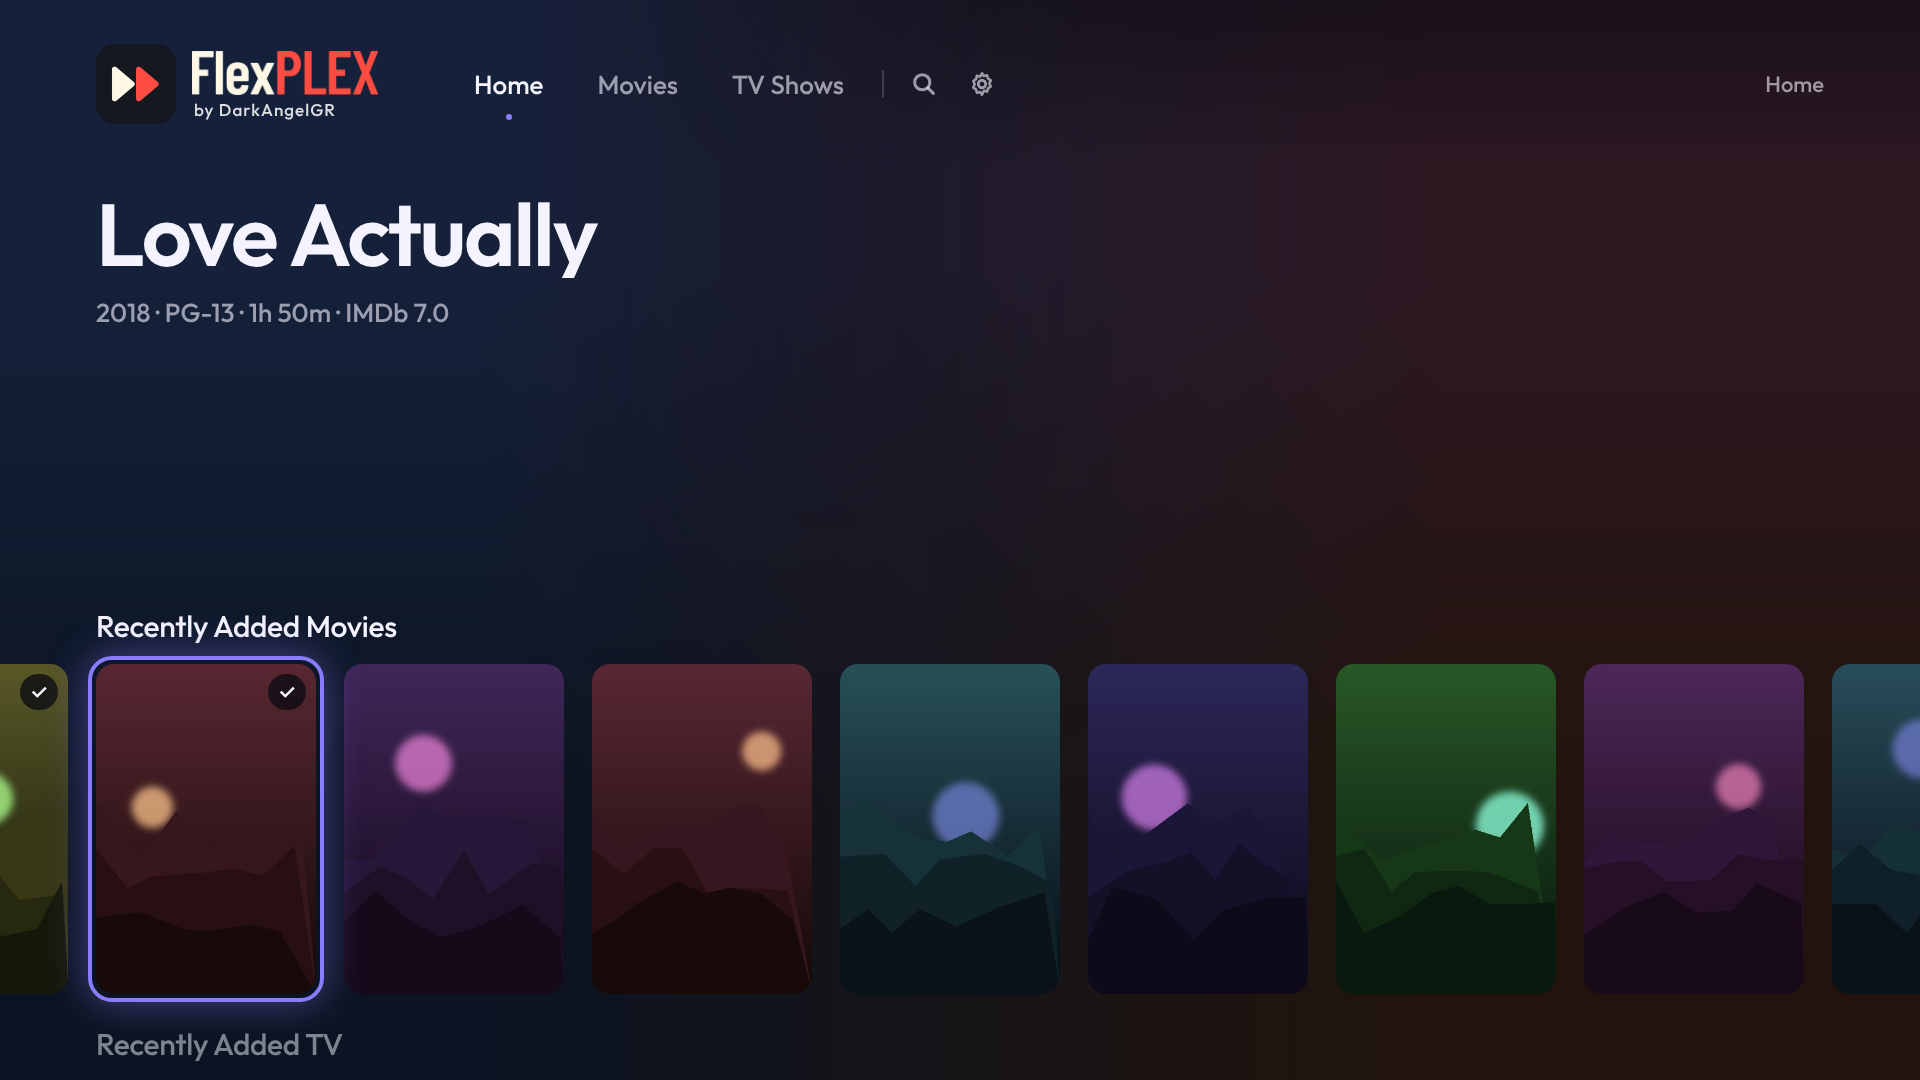
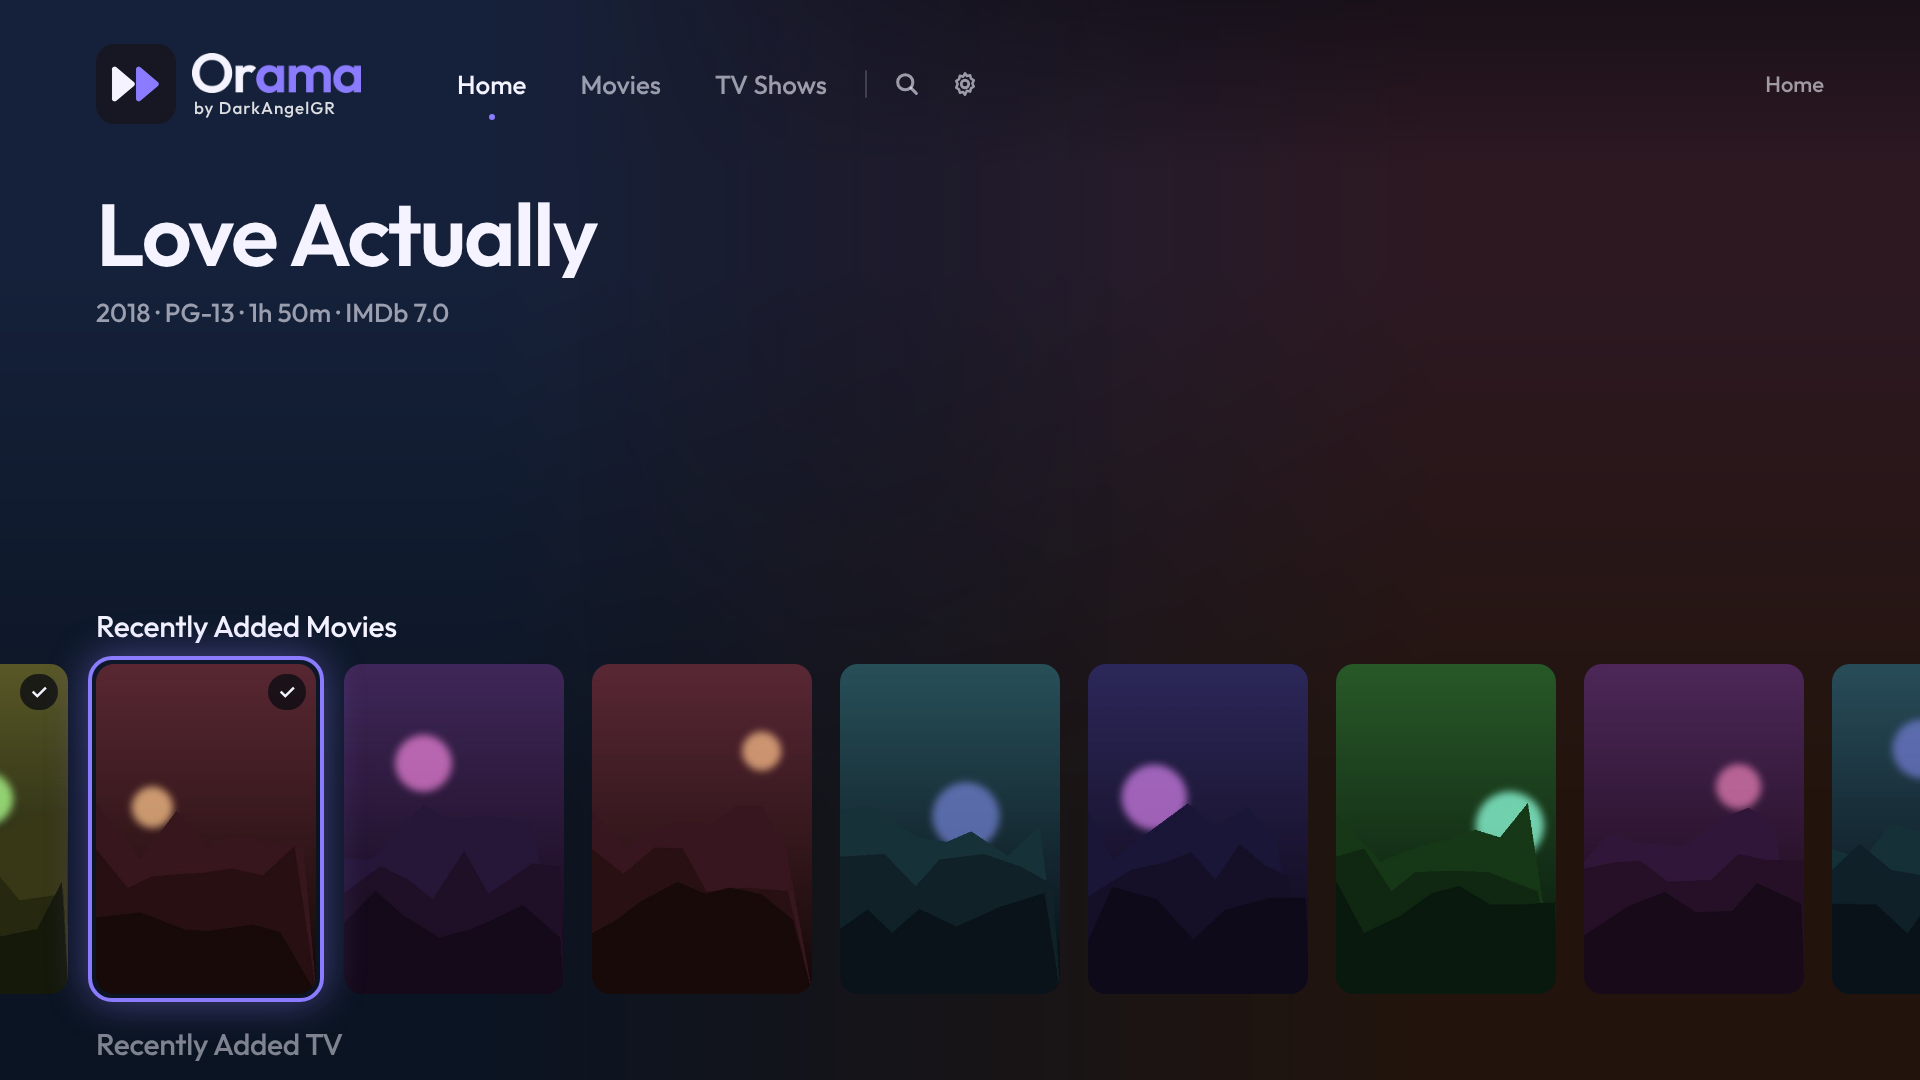
Rename to Orama (v0.17.0)
FlexPlex becomes Orama (όραμα, "vision"): app name on the TV, wordmark
('Or' + violet 'ama'), splash ('A fast player for your Plex library'), brand
assets, README, installer and all in-app text. The README now says Orama is
independent of Plex, Inc. Kept on purpose: the Tizen app id (FlexPlexDA, so it
updates in place), the GitHub repo path, and the installer's product id and
container name (existing setups keep working).

Claude-Session: https://claude.ai/code/session_01M5J3nN7Khy5kgcQqtWFSX1

Changed region(s): [[0.0312, 0.0306, 0.3438, 0.1222], [0.4688, 0.0611, 0.5312, 0.0917], [0.375, 0.0611, 0.4375, 0.0917]]

diff --git a/app/js/screens/updates.js b/app/js/screens/updates.js
@@ -1,5 +1,5 @@
 // Settings › Updates: the running version, the newest release, and installing
-// it through the FlexPlex installer on your server.
+// it through the Orama installer on your server.
 import { h, toggleClass, setText } from '../util/dom.js';
 import { useAmbience } from '../ui/backdrop.js';
 import * as router from '../router.js';
@@ -41,8 +41,8 @@ export function UpdatesScreen() {
       try { latest = await updates.githubLatest(); } catch (e) { latest = null; status = e.message; }
       if (gen !== generation) return;
     }
-    if (installer && installer.busy) { status = 'Installing… FlexPlex will close and reopen'; watch(); }
-    else if (latest) status = updates.newer(latest.version, VERSION) ? 'FlexPlex ' + latest.version + ' is available' : 'Up to date';
+    if (installer && installer.busy) { status = 'Installing… Orama will close and reopen'; watch(); }
+    else if (latest) status = updates.newer(latest.version, VERSION) ? 'Orama ' + latest.version + ' is available' : 'Up to date';
     else if (installer && installer.check_error) status = installer.check_error;
     build();
   }
@@ -67,7 +67,7 @@ export function UpdatesScreen() {
     if (!latest) return;
     try {
       const r = await updates.startInstall(latest.version);
-      status = r.already ? 'Already installing…' : 'Installing ' + latest.version + '… FlexPlex will close and reopen';
+      status = r.already ? 'Already installing…' : 'Installing ' + latest.version + '… Orama will close and reopen';
       build();
       watch();
     } catch (e) {
@@ -83,7 +83,7 @@ export function UpdatesScreen() {
     const fresh = latest && updates.newer(latest.version, VERSION);
     list.innerHTML = '';
     items = [
-      { label: 'FlexPlex ' + VERSION, value: status, run: () => check(true), action: 'Check again' },
+      { label: 'Orama ' + VERSION, value: status, run: () => check(true), action: 'Check again' },
     ];
     if (canInstall) {
       items.push({ label: fresh ? 'Install ' + latest.version : 'Reinstall ' + latest.version,
@@ -103,7 +103,7 @@ export function UpdatesScreen() {
       h('span', 'setting-value', it.el).textContent = it.value + (it.action ? '  ·  ' + it.action : '');
     });
     setText(notes, fresh && latest.notes ? 'What\'s new in ' + latest.version + ':\n' + latest.notes
-      : installer ? '' : 'Updates install through the FlexPlex installer on your server (port '
+      : installer ? '' : 'Updates install through the Orama installer on your server (port '
         + updates.DEFAULT_PORT + '); see installer/README.md on GitHub.');
     render();
   }

diff --git a/app/js/screens/settings.js b/app/js/screens/settings.js
@@ -35,7 +35,7 @@ export function SettingsScreen() {
   const clip = h('div', 'settings-list settings-clip', el);
   const list = h('div', 'settings-track', clip);
   const foot = h('div', 'settings-foot', el);
-  foot.textContent = 'FlexPlex ' + VERSION + (DEV ? ' (dev)' : '') + ' by Aggelos (DarkAngelGR) · ' + (session.server ? session.server.uri.replace(/X-Plex-Token=.*/, '') : '');
+  foot.textContent = 'Orama ' + VERSION + (DEV ? ' (dev)' : '') + ' by Aggelos (DarkAngelGR) · ' + (session.server ? session.server.uri.replace(/X-Plex-Token=.*/, '') : '');
 
   let index = 0;
   let items = [];
@@ -54,7 +54,7 @@ export function SettingsScreen() {
       { label: 'Subtitle language', value: subLang().label, run: () => { cycleSubLang(); build(); } },
       { label: 'Subtitle size', value: subSize().label, run: () => { cycleSubSize(); build(); } },
       { label: 'Subtitle background', value: subBackground() ? 'On' : 'Off', run: () => { toggleSubBackground(); build(); } },
-      { label: 'Updates', value: updates.newer(store.get('upLatest'), VERSION) ? store.get('upLatest') + ' available' : 'FlexPlex ' + VERSION,
+      { label: 'Updates', value: updates.newer(store.get('upLatest'), VERSION) ? store.get('upLatest') + ' available' : 'Orama ' + VERSION,
         run: () => router.push(UpdatesScreen()) },
       { label: 'Downloads (watchlist-sync)', value: watchlist.mode() === 'off' ? 'Off' : watchlist.baseUrl() ? watchlist.baseUrl().replace(/^https?:\/\//, '') : 'Not set',
         run: () => router.push(DownloadsScreen()) },

diff --git a/app/js/plex/updates.js b/app/js/plex/updates.js
@@ -1,6 +1,6 @@
-// New FlexPlex releases, and installing them through the FlexPlex installer
+// New Orama releases, and installing them through the Orama installer
 // (installer/ in this repo), which runs on your server and does the signing
-// and installing a TV app can't do for itself. Without the installer, FlexPlex
+// and installing a TV app can't do for itself. Without the installer, Orama
 // still asks GitHub directly so it can tell you an update is out.
 import * as store from '../util/store.js';
 import { VERSION } from '../config.js';
@@ -81,7 +81,7 @@ export async function installerStatus() {
     throw new Error('Can\'t reach the installer at ' + base.replace(/^https?:\/\//, ''));
   }
   if (r.status === 401) throw new Error('The installer needs its password');
-  if (!r.ok || r.data.product !== 'flexplex-installer') throw new Error('That address isn\'t the FlexPlex installer');
+  if (!r.ok || r.data.product !== 'flexplex-installer') throw new Error('That address isn\'t the Orama installer');
   return r.data;
 }
 

diff --git a/app/css/app.css b/app/css/app.css
@@ -109,7 +109,7 @@ html.playing .ambience { display: none; }
 .brand { display: flex; align-items: center; flex-shrink: 0; }
 .brand-mark { width: 80px; height: 80px; display: block; }
 .brand-text { margin-left: 16px; }
-.brand-wordmark { width: 193px; height: 40px; display: block; }
+.brand-wordmark { width: 169px; height: 40px; display: block; }
 .brand-by {
   margin-top: 6px; padding-left: 2px;
   font: 500 17px/1 var(--body); letter-spacing: 0.06em; color: rgba(255, 255, 255, 0.86);
@@ -550,7 +550,7 @@ html.subs-bg .subs-text {
 .info-value { margin-top: 6px; font: 500 24px/1.4 var(--body); white-space: pre-line; }
 .info-hint { position: absolute; right: 96px; bottom: 40px; font: 500 22px var(--body); color: var(--dim); }
 
-/* App-wide notice (e.g. "FlexPlex 0.9.0 is available") */
+/* App-wide notice (e.g. "Orama 0.9.0 is available") */
 .notice { left: 460px; width: 1000px; z-index: 50; }
 .updates-notes { right: 160px; max-height: 120px; overflow: hidden; white-space: pre-line; line-height: 1.5; }
 

diff --git a/app/js/screens/home.js b/app/js/screens/home.js
@@ -16,7 +16,7 @@ import * as downloads from '../plex/downloads.js';
 import { notice } from '../ui/notice.js';
 
 // Once per app start, a few seconds after home appears: is there a newer
-// FlexPlex? Mentioned once per version.
+// Orama? Mentioned once per version.
 let updateChecked = false;
 function checkForUpdate() {
   if (updateChecked) return;
@@ -25,7 +25,7 @@ function checkForUpdate() {
     updates.latest().then(l => {
       if (!l || !l.version) return;
       store.set('upLatest', l.version);
-      if (updates.shouldNotify(l.version)) notice('FlexPlex ' + l.version + ' is available  ·  Settings › Updates');
+      if (updates.shouldNotify(l.version)) notice('Orama ' + l.version + ' is available  ·  Settings › Updates');
     }, () => {});
   }, 6000);
 }

diff --git a/app/js/screens/downloads.js b/app/js/screens/downloads.js
@@ -13,7 +13,7 @@ export function DownloadsScreen() {
   const list = h('div', 'settings-list', el);
   const foot = h('div', 'settings-foot downloads-foot', el);
   foot.textContent = 'Titles you add to your Watchlist from search go to Sonarr/Radarr through '
-    + 'watchlist-sync. FlexPlex asks it to sync right away. It\'s found automatically when it runs '
+    + 'watchlist-sync. Orama asks it to sync right away. It\'s found automatically when it runs '
     + 'on the same machine as Plex (port ' + watchlist.DEFAULT_PORT + ').';
 
   let index = 0;

diff --git a/app/js/plex/watchlist.js b/app/js/plex/watchlist.js
@@ -1,5 +1,5 @@
 // Talks to watchlist-sync (github.com/DarkAngelGR/watchlist-sync), which sends
-// what's on your Plex Watchlist to Sonarr/Radarr. FlexPlex only asks it to
+// what's on your Plex Watchlist to Sonarr/Radarr. Orama only asks it to
 // sync right after you add something; its Sonarr/Radarr keys stay on the
 // server. The TV needs its address, found automatically when it runs on the
 // same machine as Plex.

diff --git a/app/js/platform/tizen.js b/app/js/platform/tizen.js
@@ -33,7 +33,7 @@ export function exitApp() {
 
 export function deviceInfo() {
   let model = 'Browser';
-  let name = 'FlexPlex';
+  let name = 'Orama';
   try { model = webapis.productinfo.getRealModel() || webapis.productinfo.getModel(); } catch (e) {}
   try { name = 'Samsung ' + (webapis.productinfo.getModel() || 'TV'); } catch (e) {}
   // PMS has a built-in "Tizen" profile (the official app) that rejects our

diff --git a/app/js/config.js b/app/js/config.js
@@ -3,4 +3,4 @@ export const DEV = false;
 export const DEV_HOST = '';      // host:port of tools/devserver.mjs
 export const DEV_SECRET = '';    // dev only: build/dev-secret, required by tools/devserver.mjs
 export const DEV_PLEX_URL = '';  // dev only: skip sign-in and use this server directly
-export const VERSION = '0.16.0';
+export const VERSION = '0.17.0';

diff --git a/app/js/plex/client.js b/app/js/plex/client.js
@@ -4,7 +4,7 @@ import { deviceInfo } from '../platform/tizen.js';
 import * as store from '../util/store.js';
 import { uuid } from '../util/format.js';
 
-export const PRODUCT = 'FlexPlex';
+export const PRODUCT = 'Orama';
 
 let clientId = store.get('clientId');
 if (!clientId) {

diff --git a/app/index.html b/app/index.html
@@ -3,7 +3,7 @@
 <head>
 <meta charset="utf-8">
 <meta name="viewport" content="width=1920, height=1080">
-<title>FlexPlex</title>
+<title>Orama</title>
 <link rel="stylesheet" href="css/app.css">
 <script src="$WEBAPIS/webapis/webapis.js"></script>
 </head>

diff --git a/installer/installer.py b/installer/installer.py
@@ -1,8 +1,8 @@
 #!/usr/bin/env python3
-"""FlexPlex installer: keeps the FlexPlex app on a Samsung TV up to date.
+"""Orama installer: keeps the Orama app on a Samsung TV up to date.
 
-Watches the GitHub releases of FlexPlex, and on request (from its web page, from
-FlexPlex itself, or automatically) downloads the newest .wgt and has
+Watches the GitHub releases of Orama, and on request (from its web page, from
+Orama itself, or automatically) downloads the newest .wgt and has
 Apps2Samsung sign it with your TV's certificate and install it.
 
 Standard library only. The signing and installing are done by Apps2Samsung's
@@ -46,7 +46,7 @@ CFG = {
     "a2s": env("A2S_BIN", "apps2samsung-cli"),
     # Lets Apps2Samsung continue past its pre-install warnings and, if the TV
     # only takes the update after removing the old copy (different
-    # certificate), do that: FlexPlex's settings and sign-in go with it.
+    # certificate), do that: Orama's settings and sign-in go with it.
     "allow_reinstall": env("ALLOW_REINSTALL", "false").lower() in ("1", "true", "yes", "on"),
 }
 
@@ -110,7 +110,7 @@ class State:
             self.save()
 
     def installed(self):
-        """Best guess of the version on the TV: what FlexPlex last reported, or
+        """Best guess of the version on the TV: what Orama last reported, or
         what this installer last put there, whichever is newer."""
         a, b = self.data.get("seen_on_tv"), self.data.get("installed")
         return a if newer(a, b) or not b else b
@@ -260,10 +260,10 @@ def do_install(latest):
     version = latest["version"]
     if not CFG["tv_ip"]:
         raise InstallError("TV_IP isn't set")
-    STATE.log(f"installing FlexPlex {version}")
+    STATE.log(f"installing Orama {version}")
     shutil.rmtree(WORK, ignore_errors=True)
     os.makedirs(WORK)
-    wgt = os.path.join(WORK, f"FlexPlex-{version}.wgt")
+    wgt = os.path.join(WORK, f"Orama-{version}.wgt")
     STATE.log(f"downloading {latest['asset_name']}")
     try:
         with github(latest["asset"], accept="application/octet-stream", timeout=120) as r, open(wgt, "wb") as f:
@@ -286,7 +286,7 @@ def do_install(latest):
     code, res, err = a2s(args)
     if code == 0 and field(res, "ok"):
         STATE.update(installed=version, installed_at=now_iso())
-        STATE.log(f"FlexPlex {version} installed" + (" and started" if field(res, "launched") else ""))
+        STATE.log(f"Orama {version} installed" + (" and started" if field(res, "launched") else ""))
         return
     msg = field(res, "error") or (err.strip().splitlines() or [f"exit {code}"])[-1]
     checks = field(field(res, "details") or {}, "checks") or []
@@ -305,7 +305,7 @@ def install_job(version=None):
             raise InstallError(f"{version} isn't the latest release ({latest['version']} is)")
         do_install(latest)
         STATE.update(last={"ok": True, "version": latest["version"], "at": now_iso(),
-                           "message": f"FlexPlex {latest['version']} installed"})
+                           "message": f"Orama {latest['version']} installed"})
     except Exception as e:  # noqa: BLE001
         msg = str(e)
         STATE.log("install failed: " + msg)
@@ -328,7 +328,7 @@ def loop():
     while True:
         latest = safe_check()
         if latest and CFG["auto_install"] and newer(latest["version"], STATE.installed()):
-            STATE.log(f"FlexPlex {latest['version']} is out; installing it (AUTO_INSTALL)")
+            STATE.log(f"Orama {latest['version']} is out; installing it (AUTO_INSTALL)")
             start_install(latest["version"])
         time.sleep(max(0.25, CFG["check_hours"]) * 3600)
 
@@ -338,7 +338,7 @@ def loop():
 PAGE = """<!doctype html>
 <html lang="en"><head><meta charset="utf-8">
 <meta name="viewport" content="width=device-width, initial-scale=1">
-<title>FlexPlex installer</title>
+<title>Orama installer</title>
 <style>
 :root { --bg:#0B0D12; --raised:#181B23; --text:#FFF7E6; --dim:rgba(255,247,230,.62); --coral:#FF4C42; --ok:#5BD18B; }
 * { box-sizing: border-box; }
@@ -357,7 +357,7 @@ button:disabled { opacity:.5; }
 pre { white-space:pre-wrap; font:12px/1.5 ui-monospace, monospace; color:var(--dim); margin:0; max-height:280px; overflow:auto; }
 .notes { white-space:pre-wrap; color:var(--dim); font-size:14px; margin-top:8px; }
 </style></head><body><main>
-<h1>FlexPlex installer</h1>
+<h1>Orama installer</h1>
 <div class="card">
   <div class="row"><span>On the TV</span><span id="installed">…</span></div>
   <div class="row"><span>Latest release</span><span id="latest">…</span></div>
@@ -445,10 +445,10 @@ class Handler(BaseHTTPRequestHandler):
                     return True
             except (ValueError, UnicodeDecodeError):
                 pass
-        # The browser page gets a login prompt; API calls (FlexPlex) a plain 401.
+        # The browser page gets a login prompt; API calls (Orama) a plain 401.
         self.send_response(401)
         if not urlparse(self.path).path.startswith("/api/"):
-            self.send_header("WWW-Authenticate", 'Basic realm="FlexPlex installer"')
+            self.send_header("WWW-Authenticate", 'Basic realm="Orama installer"')
         self.send_header("Content-Type", "application/json")
         self._cors()
         self.end_headers()
@@ -508,7 +508,7 @@ def main():
         STATE.log("TV_IP isn't set: updates can be checked but not installed")
     threading.Thread(target=loop, daemon=True).start()
     srv = ThreadingHTTPServer(("0.0.0.0", CFG["port"]), Handler)
-    STATE.log(f"FlexPlex installer listening on port {CFG['port']} (repo {CFG['repo']}, TV {CFG['tv_ip'] or '?'})")
+    STATE.log(f"Orama installer listening on port {CFG['port']} (repo {CFG['repo']}, TV {CFG['tv_ip'] or '?'})")
     srv.serve_forever()
 
 
